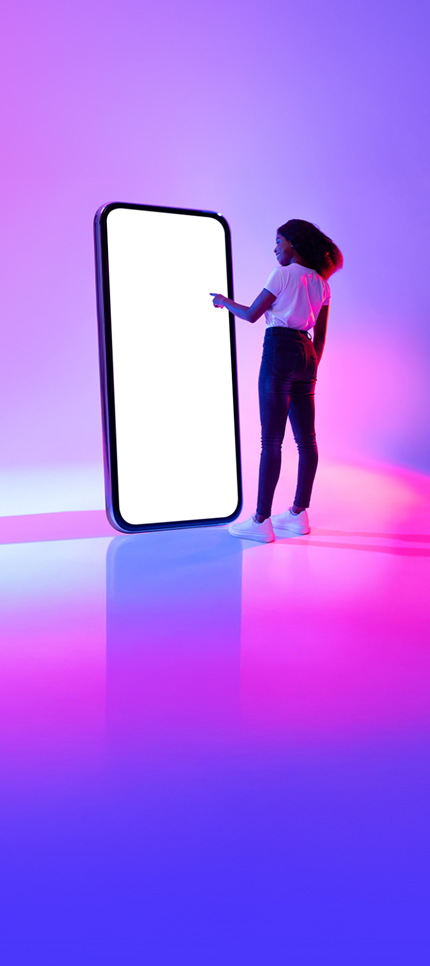
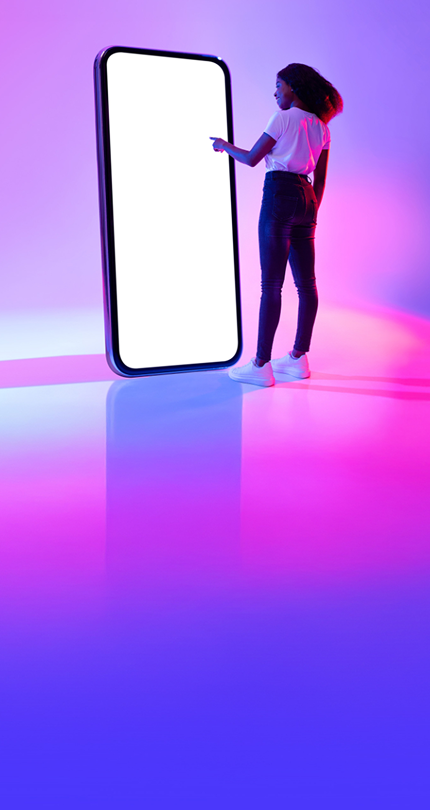
fix: mobile issues

diff --git a/components/ComoTeAyudamos.tsx b/components/ComoTeAyudamos.tsx
@@ -98,7 +98,7 @@ function AccordionRow({
 }) {
   return (
     <section className="border-b border-white/25 py-5">
-      <p className="text-brand-white mb-2 font-sans text-sm leading-9 font-normal tracking-tighter not-italic [leading-trim:both] [text-edge:cap_alphabetic]">
+      <p className="text-brand-white mb-6 font-sans text-sm font-normal tracking-tighter not-italic [leading-trim:both] [text-edge:cap_alphabetic]">
         {item.number}
       </p>
 
@@ -110,11 +110,11 @@ function AccordionRow({
           {item.title}
         </h3>
 
-        <span className="mt-1 flex h-8 w-8 shrink-0 items-center justify-center rounded-full border border-white/25">
+        <span className="border-brand-indigo mt-1 flex h-8 w-8 shrink-0 items-center justify-center rounded-full border">
           {isOpen ? (
-            <ChevronUp size={16} className="text-brand-white" />
+            <ChevronUp size={24} className="text-brand-white" />
           ) : (
-            <ChevronDown size={16} className="text-brand-white" />
+            <ChevronDown size={24} className="text-brand-white" />
           )}
         </span>
       </button>
@@ -155,7 +155,7 @@ function AccordionRow({
         <div
           className={clsx(
             "min-h-0 overflow-hidden transition-opacity duration-300 ease-out motion-reduce:transition-none",
-            isOpen ? "opacity-100" : "opacity-0",
+            isOpen ? "opacity-100 animate-accordion-open-bounce motion-reduce:animate-none" : "opacity-0",
           )}
         >
           {item.sections && item.sections.length > 0 ? (

diff --git a/components/PotenciaTuMarca.tsx b/components/PotenciaTuMarca.tsx
@@ -10,7 +10,7 @@ const HERO_ROTATIONS = [
   ["CON IDEAS", "EFECTIVAS"],
 ];
 
-const ROTATION_MS = 1250;
+const ROTATION_MS = 1750;
 
 export default function PotenciaTuMarca() {
   const [index, setIndex] = useState(0);
@@ -26,7 +26,7 @@ export default function PotenciaTuMarca() {
 
   return (
     <section aria-label="Potencia tu marca" className="relative isolate w-full">
-      <div className="xs:aspect-1920/1538 relative aspect-430/966 w-full">
+      <div className="xs:aspect-1920/1538 relative aspect-430/810 w-full">
         <div
           className="bg-brand-deep pointer-events-none absolute inset-0 z-0 overflow-hidden"
           aria-hidden
@@ -65,8 +65,8 @@ export default function PotenciaTuMarca() {
               priority
             />
           </header>
-          <div className="absolute top-3/5 right-0 left-0">
-            <h1 className="flex flex-col items-center text-center font-sans text-5xl leading-11 font-normal -tracking-widest text-white uppercase not-italic [leading-trim:both] [text-edge:cap_alphabetic]">
+          <div className="absolute top-1/2 right-0 left-0">
+            <h1 className="flex flex-col items-center text-center font-sans text-4xl leading-11 font-normal -tracking-widest text-white uppercase not-italic [leading-trim:both] [text-edge:cap_alphabetic]">
               <span>POTENCIA</span>
               <span>TU MARCA</span>
               <span

diff --git a/app/globals.css b/app/globals.css
@@ -14,6 +14,8 @@
   --brand-lilac: #775dfd;
   --brand-plum: #3c2488;
   --brand-fuchsia: #fe51d8;
+  --brand-indigo: #5f55e9;
+  --brand-periwinkle: #7168ed;
   --brand-yellow: #ffe945;
   --brand-white: #ffffff;
   --brand-violet-400: #7816fe;
@@ -44,6 +46,8 @@
   --color-brand-lilac: var(--brand-lilac);
   --color-brand-plum: var(--brand-plum);
   --color-brand-fuchsia: var(--brand-fuchsia);
+  --color-brand-indigo: var(--brand-indigo);
+  --color-brand-periwinkle: var(--brand-periwinkle);
   --color-brand-violet-bloom: var(--brand-violet-bloom);
   --color-brand-violet-night: var(--brand-violet-night);
   --color-brand-violet-ink: var(--brand-violet-ink);
@@ -111,4 +115,23 @@
 
 @utility animate-button-form {
   animation: button-form-in 1s cubic-bezier(0.22, 1, 0.36, 1) both;
+}
+
+@keyframes accordion-open-bounce {
+  0% {
+    transform: translateY(-6px);
+  }
+  55% {
+    transform: translateY(3px);
+  }
+  78% {
+    transform: translateY(-1px);
+  }
+  100% {
+    transform: translateY(0);
+  }
+}
+
+@utility animate-accordion-open-bounce {
+  animation: accordion-open-bounce 0.5s cubic-bezier(0.34, 1.2, 0.64, 1) both;
 }

diff --git a/components/NuestroMetodoTrabajo.tsx b/components/NuestroMetodoTrabajo.tsx
@@ -58,12 +58,12 @@ function Card({ number, title, description }: CardProps) {
           onClick={() => setOpen((v) => !v)}
           aria-label={open ? "Cerrar" : "Abrir"}
           aria-expanded={open}
-          className="flex h-9 w-9 shrink-0 items-center justify-center rounded-full border border-white/50 transition-colors active:bg-white/25"
+          className="border-brand-indigo flex h-9 w-9 shrink-0 items-center justify-center rounded-full border transition-colors active:bg-white/25"
         >
           {open ? (
-            <ChevronDown size={16} className="text-brand-white" />
+            <ChevronDown size={24} className="text-brand-white" />
           ) : (
-            <ChevronUp size={16} className="text-brand-white" strokeWidth={2} />
+            <ChevronUp size={24} className="text-brand-white" strokeWidth={2} />
           )}
         </button>
       </div>

diff --git a/components/QuienesSomos.tsx b/components/QuienesSomos.tsx
@@ -85,7 +85,7 @@ export default function QuienesSomos() {
         className="fixed z-10 w-1/2 pl-6 will-change-[top]"
         style={{ top: 0, left: 0 }}
       >
-        <h2 className="text-brand-cyan font-sans text-4xl leading-9 font-normal -tracking-widest uppercase not-italic [leading-trim:both] [text-edge:cap_alphabetic]">
+        <h2 className="text-brand-cyan mb-8 font-sans text-4xl leading-9 font-normal -tracking-widest uppercase not-italic [leading-trim:both] [text-edge:cap_alphabetic]">
           ¿Quiénes somos?
         </h2>
         <p className="font-axiforma text-brand-white text-base leading-6 font-medium -tracking-wide not-italic [leading-trim:both] [text-edge:cap_alphabetic]">
